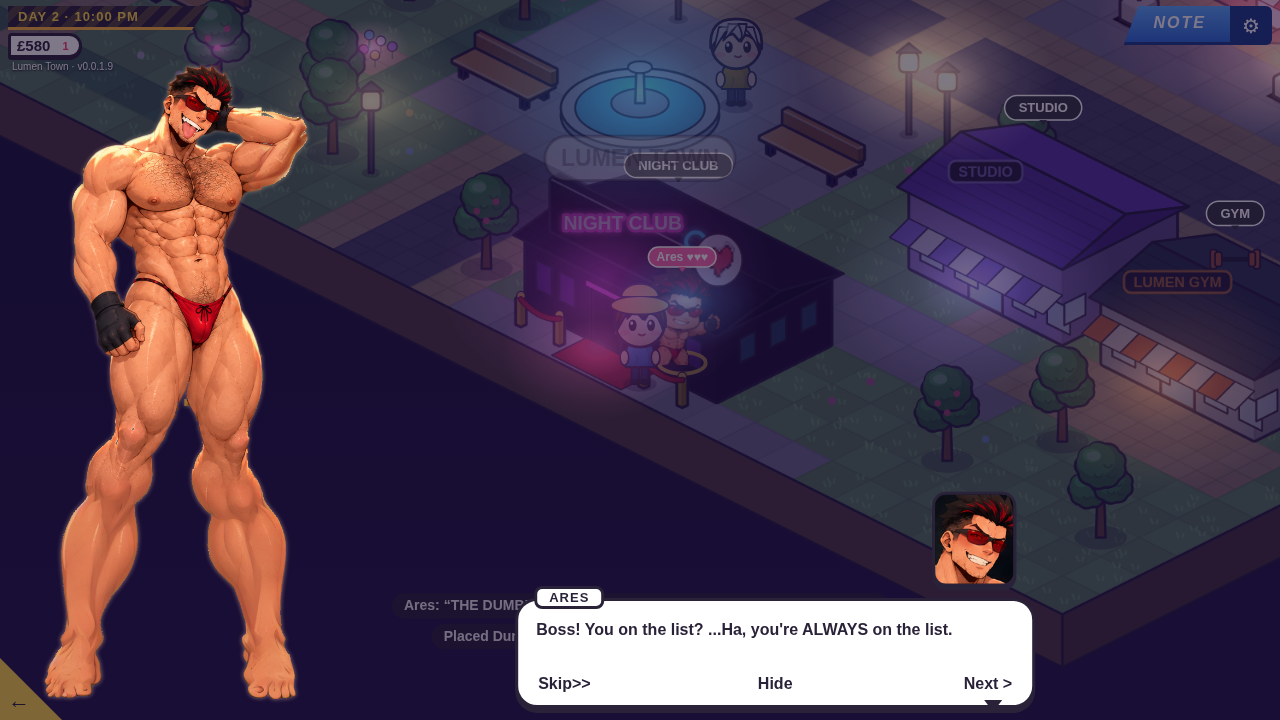
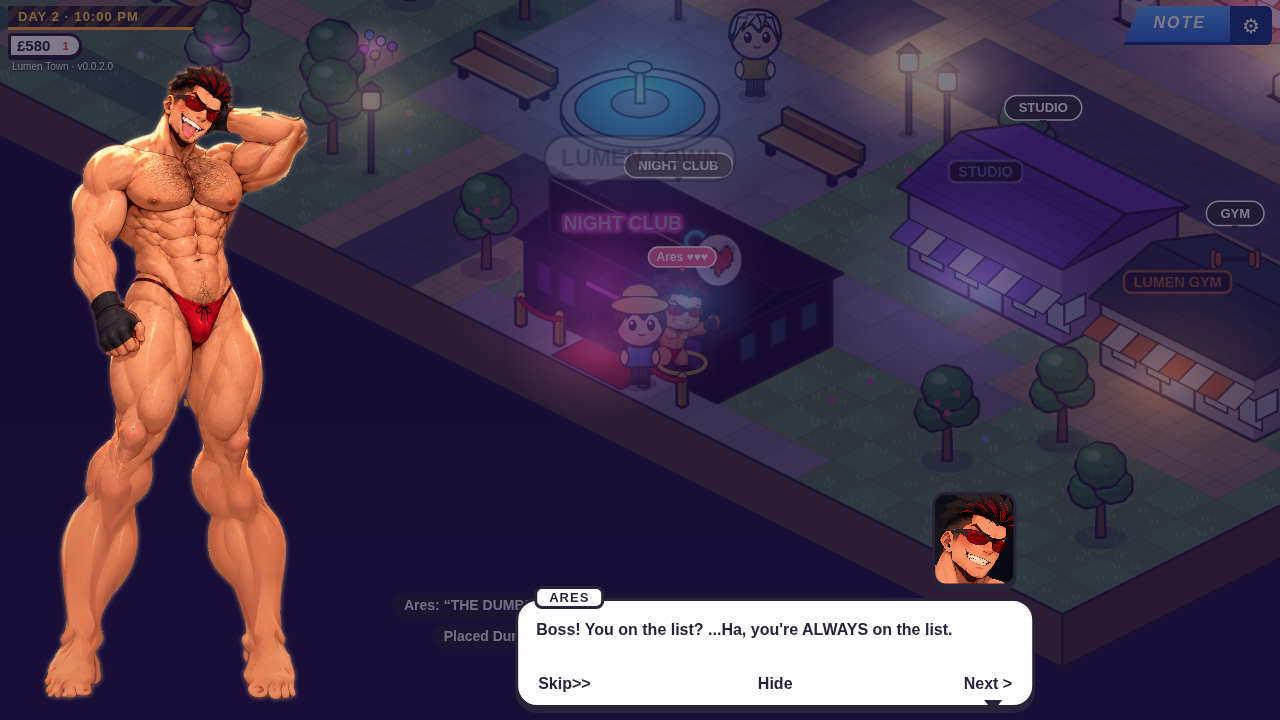
v0.0.2.0: portrait mode + sharp portrait dialogue (ESRGAN x4 Ares)

Changed region(s): [[0.5625, 0.0, 0.625, 0.1528], [0.7188, 0.7028, 0.8125, 0.7944], [0.0, 0.9167, 0.0625, 1.0]]

diff --git a/game.js b/game.js
@@ -1,7 +1,7 @@
 'use strict';
 const DPR=Math.min(2,window.devicePixelRatio||1);let ctx=null;const PB=document.createElement('canvas'),PBC=PB.getContext('2d');let PX=1;
 // Fantasy Town v0.0.0.8 — small-town condo life sim (family-friendly)
-const VERSION='v0.0.1.9',SAVE='fantasytown_save_v10';
+const VERSION='v0.0.2.0',SAVE='fantasytown_save_v10';
 const cv=document.getElementById('c'),mainCtx=cv.getContext('2d'),menuEl=document.getElementById('menu');
 const Q=new URLSearchParams(location.search),$=id=>document.getElementById(id);
 const G=0,ROAD=1,WATER=2,CONC=5,PATH=14,DARKG=15,FL1=20,FL2=21,FL3=22;
@@ -42,7 +42,7 @@ const CHARS={
  'Mayor Lumen':{look:{body:'#c09a2a',hair:'#f4f4f4',style:'short'},
   talks:[[L('Welcome to Lumen Town, manager! Small, but full of heart.','happy'),L('Happy tenants make a happy town. Post an ad at your front desk!')],[L('Tenants love rooms with their favourite things.','smile'),L('Check what they like before you decorate!','happy')]]},
 };
-// ===== v0.0.1.9 ARES — first custom tenant (original writing; cheeky, warm, family-friendly) =====
+// ===== v0.0.2.0 ARES — first custom tenant (original writing; cheeky, warm, family-friendly) =====
 CHARS.Ares={look:{ares:1,body:'#d9a07a',hair:'#14101a'},pers:'Confident · Loud · Big-brother',likes:['neon','modern'],fav:'dumbbells',loves:['dumbbells','weightbench','gymball','poster_gym'],job:'club',night:1,hang:['gym','plaza','park'],
  wage:13.5,shiftH:6,nights:5,offer:[25,28],
  talks:[[L('Yo! You run this place? Name\'s Ares. Night-club security. Don\'t worry, I only LOOK scary.','smile'),L('Door\'s my job, boss. Nobody gets past me without a smile.','teasing')]],
@@ -289,7 +289,7 @@ window.condoAct=(k,arg)=>{const c=S.condo;
 function enterRoom(id){showCondo=false;goArea('room:'+id);const n=id!='office'&&S.condo.tenants[+id.slice(1)-1];if(n=='Ares'&&TN.Ares&&TN.Ares.inRoom&&!window.NOGREET){const h=happiness(n),c=CHARS.Ares;setTimeout(()=>{if(!dlg.on){aresEmote(h>=70?'heart':h>=40?'surprise':'sweat');startDialogue('Ares',h>=70?c.home.good:h>=40?c.home.ok:c.home.bad);}},700);}}
 function drawCondo(t){ctx.setTransform(1,0,0,1,0,0);const W=cv.width,H=cv.height,night=nightF();const bg=ctx.createLinearGradient(0,0,0,H);bg.addColorStop(0,night>.5?'#1a1a4a':'#7ac8ff');bg.addColorStop(1,night>.5?'#8a5a9a':'#ffd8e0');ctx.fillStyle=bg;ctx.fillRect(0,0,W,H);
  if(night>.5)for(let i=0;i<50;i++){ctx.fillStyle='rgba(255,255,255,'+(.3+.3*Math.sin(t+i))+')';ctx.fillRect((i*137)%W,(i*71)%(H*.7),2,2);}
- btnList=[];const s=Math.min(1.2,Math.max(.6,H/600)),fw=Math.min(W-300*s,540*s),fh=118*s;if(condoScroll<0)condoScroll=Math.max(0,(S.condo.floors+2)*(fh+6*s)+90*s-H+60);const x0=Math.max(250*s,(W-fw)/2+40*s),base=H-40*s+condoScroll,c=S.condo,d=28*s;
+ btnList=[];const PTc=H>W,s=PTc?Math.min(1.2*DPR,Math.max(.5,W/560)):Math.min(1.2,Math.max(.6,H/600)),fw=PTc?W-64*s:Math.min(W-300*s,540*s),fh=118*s;if(condoScroll<0)condoScroll=Math.max(0,(S.condo.floors+2)*(fh+6*s)+90*s-H+60);const x0=PTc?(W-fw)/2+14*s:Math.max(250*s,(W-fw)/2+40*s),base=H-40*s+condoScroll,c=S.condo,d=28*s;
  const btn=(x,y,w,h,txt,col,f,dis)=>{ctx.beginPath();ctx.roundRect(x,y,w,h,h/2);ctx.fillStyle=dis?'#9a9aaa':col;ctx.fill();ctx.strokeStyle='#2a2238';ctx.lineWidth=2;ctx.stroke();ctx.fillStyle=['#ffd84a','#9fff7a'].includes(col)&&!dis?'#2a2238':'#fff';ctx.font=`bold ${Math.round(12*s)}px sans-serif`;ctx.textAlign='center';ctx.textBaseline='middle';ctx.fillText(txt,x+w/2,y+h/2+1);ctx.textAlign='left';if(!dis)btnList.push({r:[x,y,w,h],f});};
  ctx.fillStyle='#7ac06a';ctx.fillRect(0,base,W,H);ctx.fillStyle='#5a9a4a';ctx.fillRect(0,base,W,6*s);
  const label=(x,y,txt,col='#ffd84a')=>{ctx.font=`bold ${Math.round(12*s)}px sans-serif`;const w=ctx.measureText(txt).width+26*s;ctx.beginPath();ctx.roundRect(x,y-12*s,w,24*s,12*s);ctx.fillStyle='rgba(42,42,58,.94)';ctx.fill();ctx.strokeStyle=col;ctx.lineWidth=2;ctx.stroke();ctx.fillStyle='#fff';ctx.textBaseline='middle';ctx.fillText(txt,x+13*s,y+1);};
@@ -326,14 +326,15 @@ function drawCondo(t){ctx.setTransform(1,0,0,1,0,0);const W=cv.width,H=cv.height
  ctx.fillStyle='#5a4a6a';ctx.beginPath();ctx.moveTo(x0-d-14*s,y);ctx.lineTo(x0+fw+14*s,y);ctx.lineTo(x0+fw,y-16*s);ctx.lineTo(x0-d,y-16*s);ctx.fill();
  ctx.beginPath();ctx.roundRect(x0+fw/2-120*s,y-62*s,220*s,38*s,12*s);ctx.fillStyle='#2a2238';ctx.fill();ctx.shadowColor='#ff6ab0';ctx.shadowBlur=14;ctx.fillStyle='#ff9ad0';ctx.font=`bold ${Math.round(19*s)}px sans-serif`;ctx.textAlign='center';ctx.textBaseline='middle';ctx.fillText('FANTASY CONDO',x0+fw/2-10*s,y-42*s);ctx.shadowBlur=0;ctx.textAlign='left';
  // info card
- const cw=Math.min(220*s,x0-d-30*s);ctx.beginPath();ctx.roundRect(14,96,cw,150*s,14);ctx.fillStyle='rgba(255,255,255,.93)';ctx.fill();ctx.strokeStyle='#2a2238';ctx.lineWidth=2;ctx.stroke();ctx.textBaseline='top';
- [`🏢 ${c.floors} tenant floor${c.floors>1?'s':''}`,`👥 Tenants ${c.tenants.filter(Boolean).length}/${c.floors}`,`💰 Rent/day ${money(rentTotal())}`,c.apps?'📋 3 applicants waiting!':c.ad?'📋 Ad running':'📋 No ad posted','↕ drag / wheel to scroll'].forEach((l,i)=>{ctx.fillStyle=i==4?'#8a8a9a':'#2a2238';ctx.font=`bold ${Math.round((i==4?10:13)*s)}px sans-serif`;ctx.fillText(l,26,106+i*26*s);});ctx.textBaseline='alphabetic';}
+ const cw=PTc?Math.min(220*s,W*.62):Math.min(220*s,x0-d-30*s),cy0=PTc?Math.round(84*DPR):96;ctx.beginPath();ctx.roundRect(14,cy0,cw,150*s,14);ctx.fillStyle='rgba(255,255,255,.93)';ctx.fill();ctx.strokeStyle='#2a2238';ctx.lineWidth=2;ctx.stroke();ctx.textBaseline='top';
+ [`🏢 ${c.floors} tenant floor${c.floors>1?'s':''}`,`👥 Tenants ${c.tenants.filter(Boolean).length}/${c.floors}`,`💰 Rent/day ${money(rentTotal())}`,c.apps?'📋 3 applicants waiting!':c.ad?'📋 Ad running':'📋 No ad posted','↕ drag / wheel to scroll'].forEach((l,i)=>{ctx.fillStyle=i==4?'#8a8a9a':'#2a2238';ctx.font=`bold ${Math.round((i==4?10:13)*s)}px sans-serif`;ctx.fillText(l,26,cy0+10+i*26*s);});ctx.textBaseline='alphabetic';}
+let appIdx=0;
 function drawApps(t){ctx.setTransform(1,0,0,1,0,0);const W=cv.width,H=cv.height;btnList=[];const g=ctx.createLinearGradient(0,0,W,H);g.addColorStop(0,'#ffd8ec');g.addColorStop(1,'#c8d8ff');ctx.fillStyle=g;ctx.fillRect(0,0,W,H);
  ctx.fillStyle='rgba(255,255,255,.25)';for(let i=-H;i<W;i+=46){ctx.beginPath();ctx.moveTo(i,H);ctx.lineTo(i+H,0);ctx.lineTo(i+H+18,0);ctx.lineTo(i+18,H);ctx.fill();}
- const apps=S.condo.apps||[],s=Math.min(1.25,Math.max(.62,Math.min(W/1100,H/640)));
- ctx.font=`bold italic ${Math.round(22*s)}px sans-serif`;ctx.textAlign='center';ctx.textBaseline='middle';ctx.fillStyle='#2a2238';ctx.fillText('📣 APPLICANTS · CHOOSE ONE TENANT',W/2,Math.max(70,58*s+20));
- const cw=Math.min(300*s,(W-80)/3),ch=Math.min(H-150*s,470*s),gap=Math.min(24*s,(W-cw*3)/4),x0=(W-cw*3-gap*2)/2,y0=Math.max(92,58*s+44);
- apps.forEach((a,i)=>{const x=x0+i*(cw+gap),y=y0,c=CHARS[a.n];ctx.beginPath();ctx.roundRect(x,y,cw,ch,18*s);ctx.fillStyle='#fff';ctx.fill();ctx.strokeStyle='#2a2238';ctx.lineWidth=3;ctx.stroke();
+ const apps=S.condo.apps||[],PTa=H>W,s=PTa?Math.min(1.25*DPR,Math.max(.62,W/360)):Math.min(1.25,Math.max(.62,Math.min(W/1100,H/640)));if(PTa)appIdx=Math.max(0,Math.min(apps.length-1,appIdx));
+ ctx.font=`bold italic ${Math.round(22*s)}px sans-serif`;ctx.textAlign='center';ctx.textBaseline='middle';ctx.fillStyle='#2a2238';ctx.fillText(PTa?'📣 APPLICANTS · CHOOSE ONE':'📣 APPLICANTS · CHOOSE ONE TENANT',W/2,Math.max(70,58*s+20));
+ const cw=PTa?W-56*s:Math.min(300*s,(W-80)/3),ch=PTa?Math.min(H-190*s,560*s):Math.min(H-150*s,470*s),gap=PTa?0:Math.min(24*s,(W-cw*3)/4),x0=PTa?(W-cw)/2:(W-cw*3-gap*2)/2,y0=Math.max(92,58*s+44);
+ apps.forEach((a,i)=>{if(PTa&&i!=appIdx)return;const x=PTa?x0:x0+i*(cw+gap),y=y0,c=CHARS[a.n];ctx.beginPath();ctx.roundRect(x,y,cw,ch,18*s);ctx.fillStyle='#fff';ctx.fill();ctx.strokeStyle='#2a2238';ctx.lineWidth=3;ctx.stroke();
   ctx.save();ctx.beginPath();ctx.roundRect(x+6,y+6,cw-12,ch*.42,14*s);ctx.clip();const bg=ctx.createLinearGradient(0,y,0,y+ch*.42);bg.addColorStop(0,['#ffe0f0','#e0ecff','#e8ffe0'][i]);bg.addColorStop(1,'#ffffff');ctx.fillStyle=bg;ctx.fillRect(x,y,cw,ch);
   const p=portrait(a.n,'smile'),ph=ch*.5,pw=ph*420/520;ctx.drawImage(p,x+cw/2-pw/2,y+6,pw,ph);ctx.restore();
   let ty=y+ch*.42+20*s;ctx.fillStyle='#2a2238';ctx.font=`bold ${Math.round(18*s)}px sans-serif`;ctx.fillText(a.n.toUpperCase(),x+cw/2,ty);ty+=20*s;
@@ -346,16 +347,19 @@ function drawApps(t){ctx.setTransform(1,0,0,1,0,0);const W=cv.width,H=cv.height;
   const q='“'+c.talks[0][0].t+'”';ctx.font=`italic ${Math.round(12*s)}px sans-serif`;ctx.fillStyle='#4a3a5a';let line='',ly2=ty;for(const wd of q.split(' ')){if(ctx.measureText(line+wd).width>cw-34*s){if(ly2<y+ch-70*s)ctx.fillText(line,x+cw/2,ly2);ly2+=16*s;line='';}line+=wd+' ';}if(ly2<y+ch-70*s)ctx.fillText(line,x+cw/2,ly2);
   const bw=cw*.7,bh=34*s,bx=x+cw/2-bw/2,by=y+ch-bh-12*s;ctx.beginPath();ctx.roundRect(bx,by,bw,bh,bh/2);ctx.fillStyle='#ff6ab0';ctx.fill();ctx.strokeStyle='#2a2238';ctx.lineWidth=2;ctx.stroke();ctx.fillStyle='#fff';ctx.font=`bold ${Math.round(14*s)}px sans-serif`;ctx.fillText('CHOOSE '+a.n.split(' ').pop().toUpperCase(),bx+bw/2,by+bh/2+1);
   btnList.push({r:[bx,by,bw,bh],f:()=>condoAct('pick',i)});});
- const lw=180*s,lh=30*s,lx=W/2-lw/2,ly=Math.min(H-lh-8,y0+ch+12*s);ctx.beginPath();ctx.roundRect(lx,ly,lw,lh,lh/2);ctx.fillStyle='#fff';ctx.fill();ctx.strokeStyle='#2a2238';ctx.stroke();ctx.fillStyle='#2a2238';ctx.font=`bold ${Math.round(12*s)}px sans-serif`;ctx.fillText('Decline all',W/2,ly+lh/2+1);btnList.push({r:[lx,ly,lw,lh],f:()=>condoAct('decline')});
+ if(PTa&&apps.length>1){const ab=40*s,ay=y0+ch*.21-ab/2;[[-1,x0-ab*.35,'‹'],[1,x0+cw-ab*.65,'›']].forEach(([dd,ax,tx])=>{ctx.beginPath();ctx.arc(ax+ab/2,ay+ab/2,ab/2,0,7);ctx.fillStyle='#2a2238';ctx.fill();ctx.fillStyle='#fff';ctx.font=`bold ${Math.round(26*s)}px sans-serif`;ctx.fillText(tx,ax+ab/2,ay+ab/2);btnList.push({r:[ax,ay,ab,ab],f:()=>{appIdx=(appIdx+dd+apps.length)%apps.length;}});});
+  apps.forEach((_,i)=>{ctx.beginPath();ctx.arc(W/2+(i-(apps.length-1)/2)*16*s,y0+ch+12*s,4.5*s,0,7);ctx.fillStyle=i==appIdx?'#ff6ab0':'#fff';ctx.fill();ctx.strokeStyle='#2a2238';ctx.lineWidth=1.5;ctx.stroke();});}
+ const lw=180*s,lh=30*s,lx=W/2-lw/2,ly=Math.min(H-lh-8,y0+ch+(PTa?26:12)*s);ctx.beginPath();ctx.roundRect(lx,ly,lw,lh,lh/2);ctx.fillStyle='#fff';ctx.fill();ctx.strokeStyle='#2a2238';ctx.stroke();ctx.fillStyle='#2a2238';ctx.font=`bold ${Math.round(12*s)}px sans-serif`;ctx.fillText('Decline all',W/2,ly+lh/2+1);btnList.push({r:[lx,ly,lw,lh],f:()=>condoAct('decline')});
  ctx.textAlign='left';ctx.textBaseline='alphabetic';}
 // ---------- dialogue ----------
 const dlg={on:false,lines:[],i:0,ch:0,name:'',hidden:false};
-function startDialogue(name,lines){Object.assign(dlg,{on:true,lines,i:0,ch:0,name,hidden:false});$('dlg').style.display='block';$('dlgName').textContent=name.toUpperCase();showLine();for(const k in keys)keys[k]=0;}
-function showLine(){const l=dlg.lines[dlg.i];const pc=$('dlgPortrait'),g=pc.getContext('2d');g.clearRect(0,0,pc.width,pc.height);const AA=dlg.name=='Ares'&&typeof aresDialogueArt=='function'&&aresDialogueArt(),fc=$('dlgFace');if(AA){const dpr=window.devicePixelRatio||1;if(pc.width!=AA.width){pc.width=AA.width;pc.height=AA.height;}g.clearRect(0,0,pc.width,pc.height);g.drawImage(AA,0,0);pc.style.height=Math.min(AA.height/dpr,innerHeight*.9)+'px';pc.style.filter='none';pc.style.left=Math.round(innerWidth*.03)+'px';pc.style.transform='none';pc.style.bottom=Math.round(innerHeight*.02)+'px';
+function startDialogue(name,lines){Object.assign(dlg,{on:true,lines,i:0,ch:0,name,hidden:false});$('dlg').style.display='block';document.body.classList.add('dlgon');$('dlgName').textContent=name.toUpperCase();showLine();for(const k in keys)keys[k]=0;}
+function showLine(){const l=dlg.lines[dlg.i];const pc=$('dlgPortrait'),g=pc.getContext('2d');g.clearRect(0,0,pc.width,pc.height);const AA=dlg.name=='Ares'&&typeof aresDialogueArt=='function'&&aresDialogueArt(),fc=$('dlgFace');if(AA){const dpr=window.devicePixelRatio||1;if(pc.width!=AA.width){pc.width=AA.width;pc.height=AA.height;}g.clearRect(0,0,pc.width,pc.height);g.drawImage(AA,0,0);if(innerHeight>innerWidth){const cwid=Math.min(innerWidth*1.02,AA.width/dpr);pc.style.height=(cwid*AA.height/AA.width)+'px';pc.style.left=Math.round((innerWidth-cwid)/2)+'px';pc.style.top=Math.round(innerHeight*.085)+'px';pc.style.bottom='auto';}
+ else{pc.style.height=Math.min(AA.height/dpr,innerHeight*.9)+'px';pc.style.left=Math.round(innerWidth*.03)+'px';pc.style.bottom=Math.round(innerHeight*.02)+'px';pc.style.top='';}pc.style.filter='none';pc.style.transform='none';
  const F=aresFace(l.e);if(F){fc.width=F.naturalWidth;fc.height=F.naturalHeight;const fg=fc.getContext('2d');fg.clearRect(0,0,fc.width,fc.height);fg.drawImage(F,0,0);fc.style.width=Math.min(F.naturalWidth/dpr,84)+'px';fc.style.display='block';}else fc.style.display='none';}
- else{if(pc.width!=420){pc.width=420;pc.height=520;}pc.style.height='';pc.style.filter='';pc.style.left='';pc.style.transform='';pc.style.bottom='';fc.style.display='none';g.drawImage(portrait(dlg.name,l.e),0,0,pc.width,pc.height);}dlg.ch=0;$('dlgText').textContent='';$('dlgBox').style.visibility='visible';dlg.hidden=false;}
+ else{if(pc.width!=420){pc.width=420;pc.height=520;}pc.style.height='';pc.style.filter='';pc.style.left='';pc.style.transform='';pc.style.bottom='';pc.style.top='';fc.style.display='none';g.drawImage(portrait(dlg.name,l.e),0,0,pc.width,pc.height);}dlg.ch=0;$('dlgText').textContent='';$('dlgBox').style.visibility='visible';dlg.hidden=false;}
 function dlgNext(){const l=dlg.lines[dlg.i];if(dlg.ch<l.t.length){dlg.ch=l.t.length;$('dlgText').textContent=l.t;return;}dlg.i++;if(dlg.i>=dlg.lines.length)dlgClose();else showLine();}
-function dlgClose(){dlg.on=false;$('dlg').style.display='none';}
+function dlgClose(){dlg.on=false;$('dlg').style.display='none';document.body.classList.remove('dlgon');}
 $('dlgNext').onclick=e=>{e.stopPropagation();dlgNext();};$('dlgSkip').onclick=e=>{e.stopPropagation();dlgClose();};$('dlgHide').onclick=e=>{e.stopPropagation();dlg.hidden=true;$('dlgBox').style.visibility='hidden';};
 $('dlg').onclick=()=>{if(dlg.hidden){dlg.hidden=false;$('dlgBox').style.visibility='visible';}else dlgNext();};
 function gainFr(n,v){const f=fr(n),before=frLv(n);f.p+=v;S.hearts+=v;if(frLv(n)>before)toast(`♥ ${n} friendship Lv${frLv(n)}! A new scene is unlocked`);else toast(`♥ +${v} friendship with ${n}`);sfx(990);}
@@ -454,16 +458,16 @@ function update(dt){if(dlg.on){const l=dlg.lines[dlg.i];if(dlg.ch<l.t.length){dl
  toasts.forEach(t=>t.life-=dt);toasts=toasts.filter(t=>t.life>0);if(banner)banner.l-=dt;if(fade>0)fade-=dt*1.4;saveT+=dt;if(saveT>30){saveT=0;save(1);}}
 // ---------- render ----------
 let tagRects=[],hotRects=[],bOff=0,sc=1;
-function resize(){cv.width=Math.round(innerWidth*DPR);cv.height=Math.round(innerHeight*DPR);sc=DPR*Math.max(.72,Math.min(1.4,Math.min(innerWidth/1100,innerHeight/560)));$('rot').style.display=isTouch&&innerHeight>innerWidth?'flex':'none';}
+function resize(){cv.width=Math.round(innerWidth*DPR);cv.height=Math.round(innerHeight*DPR);const PT=innerHeight>innerWidth;document.body.classList.toggle('portrait',PT);sc=DPR*(PT?Math.max(.36,Math.min(1.1,Math.min(innerWidth/1000,innerHeight/1500))):Math.max(.72,Math.min(1.4,Math.min(innerWidth/1100,innerHeight/560))));}
 addEventListener('resize',resize);resize();
 function lightList(a){const Ls=[];a.objs.forEach(o=>{const d=OBJ[o.k]||FURN[o.k];(d&&d.light||[]).forEach(([x,y,z,r,c])=>{const q=o.r||0,X=q&1?y:x,Y=q&1?x:y;Ls.push([o.x+(q>=2?o.w-X:X),o.y+(q>=2?o.d-Y:Y),z,r,c]);});if(o.k=='condo')for(let f=0;f<=S.condo.floors;f++)Ls.push([o.x+2.5,o.y+4,14+f*26,44,'#ffd88a']);});return Ls;}
 function W2S(x,y,z){const [ix,iy]=isoP(x,y,z);return[cv.width/2+(ix-camS.x)*Z,cv.height/2+(iy-camS.y)*Z];}
 const PLOOK={body:'#3a8aff',hair:'#6a3a1a',style:'short',hat:'#e8c050',pants:'#2a3a6a'};
 function tenantAtScreen(sx,sy){let best=null,bd=1e9;tenantsHere().forEach(t=>{const [x,y]=W2S(t.px,t.py,0),dx=sx-x,dy=sy-y;if(Math.abs(dx)<12*Z&&dy<5*Z&&dy>-34*Z){const d=Math.abs(dx)+Math.abs(dy+14*Z);if(d<bd){bd=d;best=t;}}});return best;}
 function drawScene(t,night){const a=area,W=cv.width,H=cv.height;
- const fit=a.room?Math.min(W/((a.cols+a.rows)*TW/2+40),(H-90)/((a.cols+a.rows)*TH/2+66)):0;Z=a.room?Math.max(1.15*DPR,Math.min(2.4*DPR,fit)):Math.max(1.5,Math.min(3.2,H/(isTouch?220:300)));
+ const fit=a.room?Math.min(W/((a.cols+a.rows)*TW/2+40),(H-90)/((a.cols+a.rows)*TH/2+66)):0;const PTs=H>W;Z=a.room?Math.max((PTs?.5:1.15)*DPR,Math.min(2.4*DPR,fit)):PTs?Math.max(1.2*DPR,Math.min(3.2*DPR,W/170)):Math.max(1.5,Math.min(3.2,H/(isTouch?220:300)));
  let fx=ptx(),fy=pty();const ft=follow&&TN[follow];if(ft&&!a.room&&!ft.inRoom){fx=ft.px;fy=ft.py;}
- const [px,py]=isoP(fx,fy);let tx2=px,ty2=py-10;if(a.room&&fit>=1.15*DPR){const [mx,my]=isoP(a.cols/2,a.rows/2);tx2=mx;ty2=my-26;}if(window.ZOOM){Z=window.ZOOM*DPR;const [mx,my]=isoP(...window.CAMT);tx2=mx;ty2=my;camSnap=1;}
+ const [px,py]=isoP(fx,fy);let tx2=px,ty2=py-10;if(a.room&&fit>=(H>W?.5:1.15)*DPR){const [mx,my]=isoP(a.cols/2,a.rows/2);tx2=mx;ty2=my-26;}if(window.ZOOM){Z=window.ZOOM*DPR;const [mx,my]=isoP(...window.CAMT);tx2=mx;ty2=my;camSnap=1;}
  if(camSnap){cam.x=tx2;cam.y=ty2;camSnap=0;}else{cam.x+=(tx2-cam.x)*.12;cam.y+=(ty2-cam.y)*.12;}
  ctx=mainCtx;ctx.imageSmoothingEnabled=true;ctx.imageSmoothingQuality='high';const TX=W/2-cam.x*Z,TY=H/2-cam.y*Z;
  const sky=ctx.createLinearGradient(0,0,0,H);if(a.room){sky.addColorStop(0,'#3a2c4a');sky.addColorStop(1,'#6a4a6a');}else{sky.addColorStop(0,night>.5?'#141432':'#9ad8ff');sky.addColorStop(1,night>.5?'#2a1a4a':'#e8f6ff');}

diff --git a/ares.js b/ares.js
@@ -12,15 +12,20 @@ const aresReady=n=>{const i=ARES_IMG[n];return i&&i.complete&&i.naturalWidth>0;}
 ['icon_heart','icon_hearts','icon_angry','icon_surprise','icon_note'].forEach(n=>{const im=new Image();im.src='assets/ares/'+n+'.png';ARES_IMG[n]=im;});
 // Dialogue art: the CG shown at native resolution in a clean frame, keeping its own painted background;
 // only the frame's alpha is feathered (sides) and faded (bottom, behind the text box) so no crop edge shows.
-let _adc=null;
-{const im=new Image();im.src='assets/ares/cg_full.png';ARES_IMG.cg_full=im;}
+let _adc=null,_adcHD=null;
+{const im=new Image();im.src='assets/ares/cg_full.png';ARES_IMG.cg_full=im;const hd=new Image();hd.src='assets/ares/cg_full_hd.png';ARES_IMG.cg_full_hd=hd;}
 // Big model, whole from head to toe (assets/ares/cg_full.png: the sheet's CG with the limbs the panel cut off completed
 // offline), standing over the live, dimmed location. Soft warm rim glow only; no fades, no crop.
-function aresDialogueArt(){if(_adc)return _adc;if(!aresReady('cg_full'))return null;const b=ARES_IMG.cg_full,P=12,W=b.naturalWidth+P*2,H=b.naturalHeight+P*2;
+// Portrait: cg_full_hd.png = Real-ESRGAN anime x4 of cg_full (head verified against the sheet), Lanczos-reduced to 1200px wide,
+// so phones (up to ~1200 device px wide) never upscale it.
+function aresDialogueArtHD(){if(_adcHD)return _adcHD;if(!aresReady('cg_full_hd'))return null;const b=ARES_IMG.cg_full_hd,c=document.createElement('canvas');c.width=b.naturalWidth;c.height=b.naturalHeight;
+ const g=c.getContext('2d');g.save();g.shadowColor='rgba(255,214,190,.45)';g.shadowBlur=18;g.drawImage(b,0,0);g.restore();g.drawImage(b,0,0);return _adcHD=c;}
+function aresDialogueArt(){if(innerHeight>innerWidth){const hd=aresDialogueArtHD();if(hd)return hd;}if(_adc)return _adc;if(!aresReady('cg_full'))return null;const b=ARES_IMG.cg_full,P=12,W=b.naturalWidth+P*2,H=b.naturalHeight+P*2;
  const c=document.createElement('canvas');c.width=W;c.height=H;const g=c.getContext('2d');
  g.save();g.shadowColor='rgba(255,214,190,.5)';g.shadowBlur=9;g.drawImage(b,P,P);g.restore();g.drawImage(b,P,P);return _adc=c;}
 // small face badge = the sheet's close-up for the line's emotion (shown at <= native size, anchored to the text box)
-function aresFace(expr){expr={happy:'smile',laugh:'smile',smirk:'teasing',embarrassed:'blush',blushing:'blush',thinking:'serious'}[expr]||expr;if(!ARES_EXPR.includes(expr))expr='smile';const n='expr_'+(expr=='blush'?'blushing':expr);return aresReady(n)?ARES_IMG[n]:null;}
+function aresFace(expr){expr={happy:'smile',laugh:'smile',smirk:'teasing',embarrassed:'blush',blushing:'blush',thinking:'serious'}[expr]||expr;if(!ARES_EXPR.includes(expr))expr='smile';const n='expr_'+(expr=='blush'?'blushing':expr);return aresReady(n+'_hd')?ARES_IMG[n+'_hd']:aresReady(n)?ARES_IMG[n]:null;}
+['normal','smile','teasing','blushing','angry','serious','surprised','sad'].forEach(e=>{const im=new Image();im.src='assets/ares/expr_'+e+'_hd.png';ARES_IMG['expr_'+e+'_hd']=im;});
 // small uses (applicant card, tenant list): the CG's upper body at native pixels, 420:520 aspect
 const _apc={};
 function aresPortrait(expr){if(_apc.b)return _apc.b;const b=ARES_IMG.cg;const c=document.createElement('canvas');if(!aresReady('cg')){c.width=420;c.height=520;return c;}

diff --git a/index.html b/index.html
@@ -2,7 +2,7 @@
 <html lang="en"><head><meta charset="utf-8">
 <meta name="viewport" content="width=device-width,initial-scale=1,maximum-scale=1,user-scalable=no,viewport-fit=cover">
 <meta name="mobile-web-app-capable" content="yes"><meta name="apple-mobile-web-app-capable" content="yes"><meta name="theme-color" content="#2a2238">
-<title>Fantasy Town v0.0.1.9</title>
+<title>Fantasy Town v0.0.2.0</title>
 <style>
 *{box-sizing:border-box}
 html,body{margin:0;height:100%;background:#2a2238;overflow:hidden;touch-action:none;font-family:"Trebuchet MS",Verdana,sans-serif;color:#2a2238;-webkit-user-select:none;user-select:none}
@@ -41,6 +41,12 @@ body:not(.touch) #talk{right:20px}
 #dlgPortrait{position:absolute;left:50%;bottom:0;height:84%;transform:translateX(-88%);filter:drop-shadow(0 6px 10px rgba(0,0,0,.35))}
 #dlgBox{position:absolute;left:50%;transform:translateX(-24%);bottom:12px;width:min(520px,62vw);background:#fff;border:3px solid #2a2238;border-radius:22px;padding:18px 18px 34px;min-height:110px;box-shadow:0 5px 0 #2a2238}
 #dlgFace{position:absolute;right:16px;top:-14px;transform:translateY(-100%);display:none;border:3px solid #2a2238;border-radius:14px;box-shadow:0 4px 0 #2a2238;background:#141018}
+body.dlgon #back{display:none!important}
+#dlg{overflow:hidden}
+body.portrait #res{position:fixed;right:calc(env(safe-area-inset-right) + 8px);top:80px}
+body.portrait #dlg{background:rgba(20,10,40,.28)}
+body.portrait #dlgBox{left:10px;right:10px;width:auto;transform:none;bottom:calc(env(safe-area-inset-bottom) + 12px);min-height:120px}
+body.portrait #dlgFace{right:10px}
 #dlgBox:after{content:"";position:absolute;right:30px;bottom:-16px;border:9px solid transparent;border-top:12px solid #2a2238}
 #dlgName{position:absolute;left:16px;top:-15px;background:#fff;border:3px solid #2a2238;border-radius:8px;padding:1px 12px;font-weight:bold;font-size:13px;letter-spacing:1px}
 #dlgText{font-weight:bold;font-size:16px;line-height:1.35;min-height:44px}
@@ -91,6 +97,6 @@ body.touch #touch{display:block}body.modal #touch,body.modal #talk{display:none!
  <div class="tb pill" id="bbuild" data-k="build" style="right:calc(env(safe-area-inset-right) + 80px);bottom:100px;background:#9fff7a">DECOR</div>
  <div class="tb pill" data-k="map" style="right:calc(env(safe-area-inset-right) + 16px);top:56px;background:#bfe8ff">MAP</div>
 </div>
-<div id="rot"><div class="ph"></div>Rotate your phone<br><small style="font-size:13px;opacity:.8">Fantasy Town plays in landscape</small></div>
+
 <script src="art.js"></script><script src="iso.js"></script><script src="objects.js"></script><script src="portrait.js"></script><script src="furniture.js"></script><script src="illus.js"></script><script src="lobby.js"></script><script src="town.js"></script><script src="ares.js"></script><script src="game.js"></script>
 </body></html>

diff --git a/portrait_shots.py b/portrait_shots.py
@@ -1,0 +1,28 @@
+# Portrait screenshots (390x844 and 720x1280) + console-error check
+import asyncio,sys
+from playwright.async_api import async_playwright
+U='file:///workspace/fantasy-town/index.html'
+async def main():
+  async with async_playwright() as p:
+    b=await p.chromium.launch();errs=[]
+    for (w,h,dp) in [(390,844,1),(720,1280,1),(360,780,3)]:
+      pg=await b.new_page(viewport={'width':w,'height':h},has_touch=True,is_mobile=True,device_scale_factor=dp)
+      pg.on('console',lambda m: m.type=='error' and errs.append(m.text));pg.on('pageerror',lambda e: errs.append(str(e)))
+      sfx=f'{w*dp}x{h*dp}';await pg.goto(U);await pg.evaluate("localStorage.clear()");await pg.goto(U+'?t=8');await pg.wait_for_timeout(700)
+      rot=await pg.evaluate("document.getElementById('rot')?'present':'removed'")
+      await pg.evaluate("FT.condoAct('ad');sleep();FT.condoAct('pick',0)");await pg.wait_for_timeout(300)
+      await pg.evaluate("document.getElementById('dlg').style.display=='block'&&document.getElementById('dlgSkip').click()")
+      await pg.evaluate("FT.condo=true");await pg.wait_for_timeout(500);await pg.screenshot(path=f'screenshot-portrait-condo-{sfx}.png');await pg.evaluate("FT.condo=false")
+      window_ng="window.NOGREET=1;"
+      await pg.evaluate(window_ng+"FT.enterRoom('f1');FT.setPos(13,16)");await pg.wait_for_timeout(600);await pg.screenshot(path=f'screenshot-portrait-room-{sfx}.png')
+      await pg.evaluate("window.NOGREET=0;FT.S.fr.Ares={p:12,talk:0,hang:0,scene:0};FT.enterRoom('f1')");await pg.wait_for_timeout(3500);await pg.screenshot(path=f'screenshot-portrait-dialogue-room-{sfx}.png')
+      geo=await pg.evaluate("""(()=>{const r=e=>{const q=document.getElementById(e);if(!q||q.offsetParent===null&&getComputedStyle(q).position!='fixed')return null;const b=q.getBoundingClientRect();return [Math.round(b.left),Math.round(b.top),Math.round(b.right),Math.round(b.bottom)]};return {portrait:r('dlgPortrait'),box:r('dlgBox'),face:r('dlgFace'),back:r('back')}})()""")
+      await pg.evaluate("document.getElementById('dlgSkip').click()")
+      await pg.evaluate("FT.goArea('town',[24,23]);FT.setTime(22)");await pg.wait_for_timeout(500);await pg.screenshot(path=f'screenshot-portrait-town-{sfx}.png')
+      await pg.evaluate("FT.TN.Ares.px=24.5;FT.TN.Ares.py=22.4;FT.setPos(24,23)");await pg.wait_for_timeout(400)
+      tb=pg.get_by_text('TALK · ARES')
+      if await tb.count(): await tb.first.click();await pg.wait_for_timeout(3500);await pg.screenshot(path=f'screenshot-portrait-dialogue-town-{sfx}.png')
+      else: print('no talk button',sfx)
+      print(sfx,'rot',rot,'geo',geo)
+    print('ERRORS',errs);await b.close()
+asyncio.run(main())

diff --git a/assets/ares/head_check.py b/assets/ares/head_check.py
@@ -1,0 +1,23 @@
+# Head fidelity check: (1) cg_full's head must be the sheet's pixels exactly; (2) the 4x ESRGAN head, downsampled back,
+# must match it closely (shape-preserving) — rejects if mean error is high or edges move. Writes a side-by-side image.
+import numpy as np,sys
+from PIL import Image
+sh=np.asarray(Image.open('sheet.png').convert('RGB')).astype(int);cf=Image.open('cg_full.png').convert('RGBA');u=Image.open('cg_full_4x.png').convert('RGBA')
+hb=(205,0,350,150);H=np.asarray(cf.crop(hb)).astype(int);m=H[...,3]==255
+# locate in sheet (CG panel area)
+best=None
+for y in range(0,60):
+  for x in range(0,200):
+    d=np.abs(sh[y:y+150,x:x+145]-H[...,:3])[m].mean()
+    if best is None or d<best[0]: best=(d,x,y)
+print('head vs sheet: mean abs diff %.3f at sheet (%d,%d)'%best)
+U=u.crop(tuple(v*4 for v in hb));D=np.asarray(U.resize((145,150),Image.LANCZOS)).astype(int)
+err=np.abs(D[...,:3]-H[...,:3])[m].mean()
+from scipy import ndimage as nd
+e1=np.hypot(nd.sobel(H[...,:3].mean(-1),0),nd.sobel(H[...,:3].mean(-1),1))>60;e2=np.hypot(nd.sobel(D[...,:3].mean(-1),0),nd.sobel(D[...,:3].mean(-1),1))>60
+iou=(e1&nd.binary_dilation(e2)).sum()/max(1,e1.sum())
+print('ESRGAN head (downsampled back) mean abs diff %.2f, edge agreement %.3f'%(err,iou));ok=err<8 and iou>.9;print('ACCEPT' if ok else 'REJECT')
+sbs=Image.new('RGB',(145*4*2+20,600),(20,16,26));org=Image.fromarray(H.astype(np.uint8)).resize((580,600),Image.NEAREST)
+bg=Image.new('RGBA',org.size,(20,16,26,255));bg.alpha_composite(org.convert('RGBA'));sbs.paste(bg.convert('RGB'),(0,0))
+bg2=Image.new('RGBA',U.size,(20,16,26,255));bg2.alpha_composite(U);sbs.paste(bg2.convert('RGB'),(600,0));sbs.save('/workspace/fantasy-town/screenshot-ares-head-compare.png')
+sys.exit(0 if ok else 1)

diff --git a/assets/ares/esrgan_arch.py b/assets/ares/esrgan_arch.py
@@ -1,0 +1,17 @@
+# Real-ESRGAN x4plus_anime_6B network (RRDBNet, 6 blocks) — architecture only, weights: RealESRGAN_x4plus_anime_6B.pth
+import torch,torch.nn as nn,torch.nn.functional as F
+class RDB(nn.Module):
+    def __init__(s,f=64,g=32):
+        super().__init__();s.conv1=nn.Conv2d(f,g,3,1,1);s.conv2=nn.Conv2d(f+g,g,3,1,1);s.conv3=nn.Conv2d(f+2*g,g,3,1,1);s.conv4=nn.Conv2d(f+3*g,g,3,1,1);s.conv5=nn.Conv2d(f+4*g,f,3,1,1);s.l=nn.LeakyReLU(.2,True)
+    def forward(s,x):
+        x1=s.l(s.conv1(x));x2=s.l(s.conv2(torch.cat((x,x1),1)));x3=s.l(s.conv3(torch.cat((x,x1,x2),1)));x4=s.l(s.conv4(torch.cat((x,x1,x2,x3),1)));return s.conv5(torch.cat((x,x1,x2,x3,x4),1))*.2+x
+class RRDB(nn.Module):
+    def __init__(s,f=64):super().__init__();s.rdb1=RDB(f);s.rdb2=RDB(f);s.rdb3=RDB(f)
+    def forward(s,x):return s.rdb3(s.rdb2(s.rdb1(x)))*.2+x
+class Net(nn.Module):
+    def __init__(s,nb=6,f=64):
+        super().__init__();s.conv_first=nn.Conv2d(3,f,3,1,1);s.body=nn.Sequential(*[RRDB(f) for _ in range(nb)]);s.conv_body=nn.Conv2d(f,f,3,1,1)
+        s.conv_up1=nn.Conv2d(f,f,3,1,1);s.conv_up2=nn.Conv2d(f,f,3,1,1);s.conv_hr=nn.Conv2d(f,f,3,1,1);s.conv_last=nn.Conv2d(f,3,3,1,1);s.l=nn.LeakyReLU(.2,True)
+    def forward(s,x):
+        fe=s.conv_first(x);fe=fe+s.conv_body(s.body(fe));fe=s.l(s.conv_up1(F.interpolate(fe,scale_factor=2,mode='nearest')));fe=s.l(s.conv_up2(F.interpolate(fe,scale_factor=2,mode='nearest')))
+        return s.conv_last(s.l(s.conv_hr(fe)))

diff --git a/assets/ares/upscale_cg.py b/assets/ares/upscale_cg.py
@@ -1,0 +1,17 @@
+# x4 Real-ESRGAN (anime_6B) upscale of cg_full.png, tiled on CPU. Transparent pixels get RGB from the nearest opaque
+# pixel first (no dark/green halo pulled into edges); alpha is upscaled with Lanczos. Output: cg_full_4x.png
+import sys,torch,numpy as np,scipy.ndimage as nd
+from PIL import Image
+sys.path.insert(0,'.');from esrgan_arch import Net
+net=Net();sd=torch.load('/tmp/ares7/anime6B.pth',map_location='cpu');net.load_state_dict(sd.get('params_ema',sd));net.eval();torch.set_num_threads(8)
+im=np.asarray(Image.open('cg_full.png').convert('RGBA')).astype(np.float32);al=im[...,3]
+idx=nd.distance_transform_edt(al<128,return_distances=False,return_indices=True);rgb=im[...,:3][idx[0],idx[1]]
+H,W=al.shape;T,O=160,12;out=np.zeros((H*4,W*4,3),np.float32)
+with torch.no_grad():
+  for y in range(0,H,T):
+    for x in range(0,W,T):
+      y0,x0=max(0,y-O),max(0,x-O);y1,x1=min(H,y+T+O),min(W,x+T+O)
+      t=torch.from_numpy(np.ascontiguousarray(rgb[y0:y1,x0:x1]/255)).permute(2,0,1)[None].float();o=net(t).clamp(0,1)[0].permute(1,2,0).numpy()
+      cy,cx=(y-y0)*4,(x-x0)*4;h,w=min(T,H-y)*4,min(T,W-x)*4;out[y*4:y*4+h,x*4:x*4+w]=o[cy:cy+h,cx:cx+w]
+a4=np.asarray(Image.fromarray(al.astype(np.uint8)).resize((W*4,H*4),Image.LANCZOS))
+Image.fromarray(np.dstack([(out*255+.5).clip(0,255).astype(np.uint8),a4])).save('cg_full_4x.png');print(W*4,H*4)

diff --git a/assets/ares/upscale_expr.py b/assets/ares/upscale_expr.py
@@ -1,0 +1,9 @@
+# Real-ESRGAN anime x4 of the 8 expression close-ups (opaque cards) -> expr_<e>_hd.png, for the face badge on HiDPI phones.
+import sys,torch,numpy as np
+from PIL import Image
+sys.path.insert(0,'.');from esrgan_arch import Net
+net=Net();sd=torch.load('/tmp/ares7/anime6B.pth',map_location='cpu');net.load_state_dict(sd.get('params_ema',sd));net.eval();torch.set_num_threads(8)
+for e in ['normal','smile','teasing','blushing','angry','serious','surprised','sad']:
+    im=np.asarray(Image.open(f'expr_{e}.png').convert('RGB')).astype(np.float32)/255
+    with torch.no_grad(): o=net(torch.from_numpy(im).permute(2,0,1)[None]).clamp(0,1)[0].permute(1,2,0).numpy()
+    Image.fromarray((o*255+.5).astype(np.uint8)).save(f'expr_{e}_hd.png',optimize=True);print(e,o.shape)

diff --git a/README.md b/README.md
@@ -43,3 +43,9 @@ Save: localStorage `fantasytown_save_v8` (older saves reset with +150g).
 ## v0.0.1.9
 - Ares dialogue art is now whole, head to toe (`assets/ares/cg_full.png`). The parts the sheet panel cut off were completed offline with SD1.5-inpainting on CPU: lower legs and feet, guided by the sheet's own front turnaround legs (`extend_cg.py`), then his right upper arm and raised elbow/forearm (`extend_arms.py`). `finish_cg.py` puts the untouched CG pixels back on top, colour-matches the new parts to the CG and crossfades only at the seams (24px at the shins, 16px at the arm cuts).
 - He stands full-body on the left at up to 90% of the screen height (only ever downscaled), over the live dimmed room or town, with the text box beside him.
+
+## v0.0.2.0 — portrait
+- The game now plays upright (portrait); the rotate-to-landscape prompt is gone. Landscape still works.
+- Portrait layout: the room camera fits the whole unit, the town camera is width-based, and the stats pill sits under NOTE/MAP. The condo building fills the screen width. Applicants are shown one card at a time with ‹ › arrows.
+- Portrait dialogue: whole Ares (`cg_full_hd.png`, Real-ESRGAN anime x4 then Lanczos down to 1200px wide, so phones never upscale it) is centred, filling the screen width, over the current location (lightly dimmed). The text box sits at the bottom over his legs, with a face badge (ESRGAN x4 expression card) at its top-right. The back arrow is hidden during dialogue.
+- `assets/ares/head_check.py` verifies that the head equals the sheet pixels (diff 0.000) and that the ESRGAN head keeps its shape (diff 5.10, edge agreement 0.970: ACCEPT).
